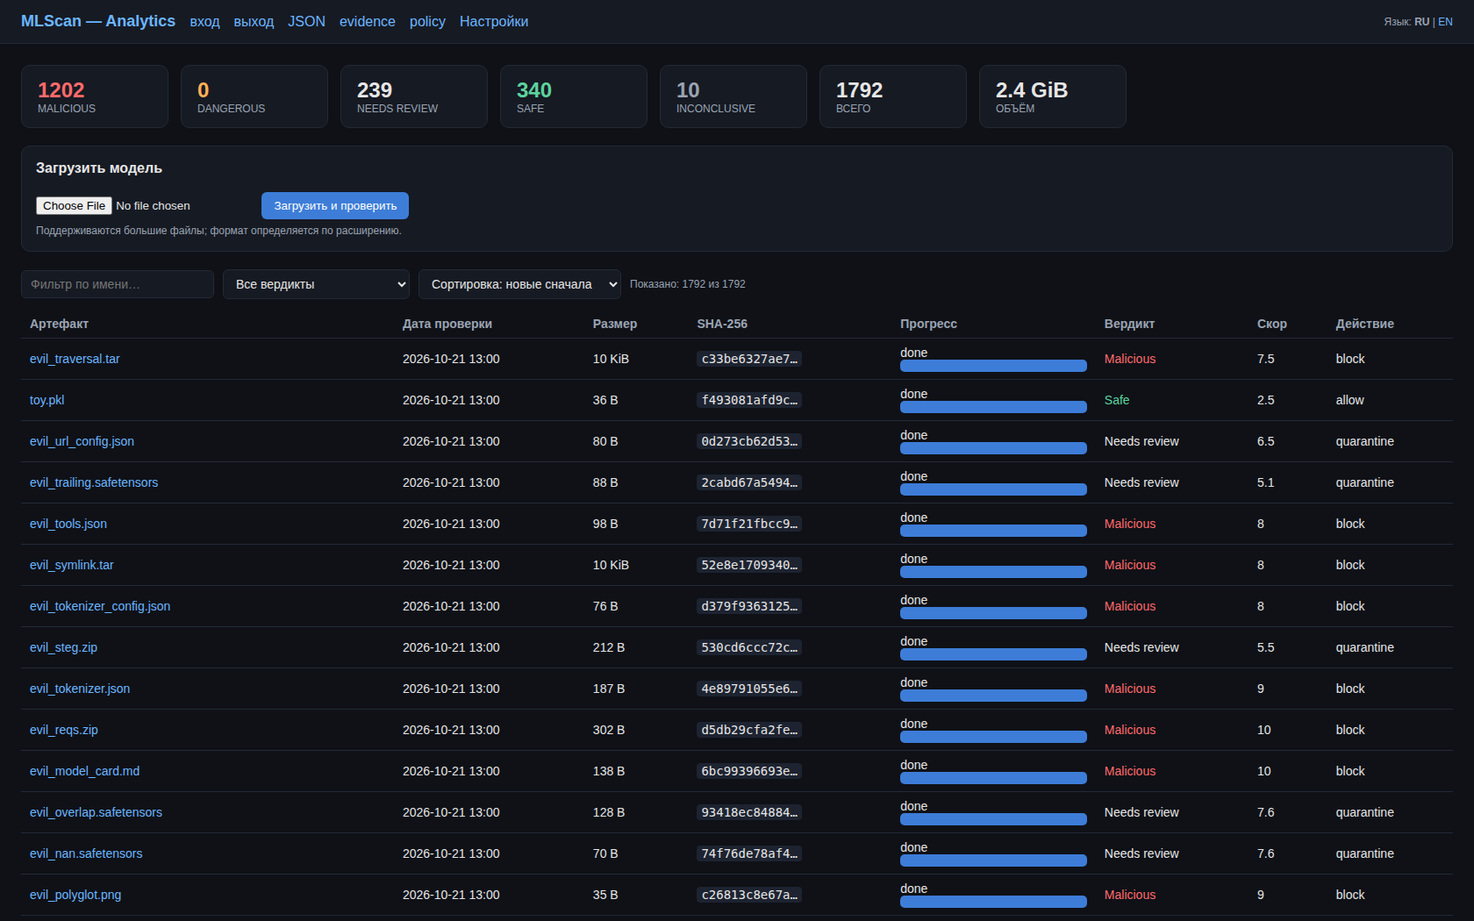
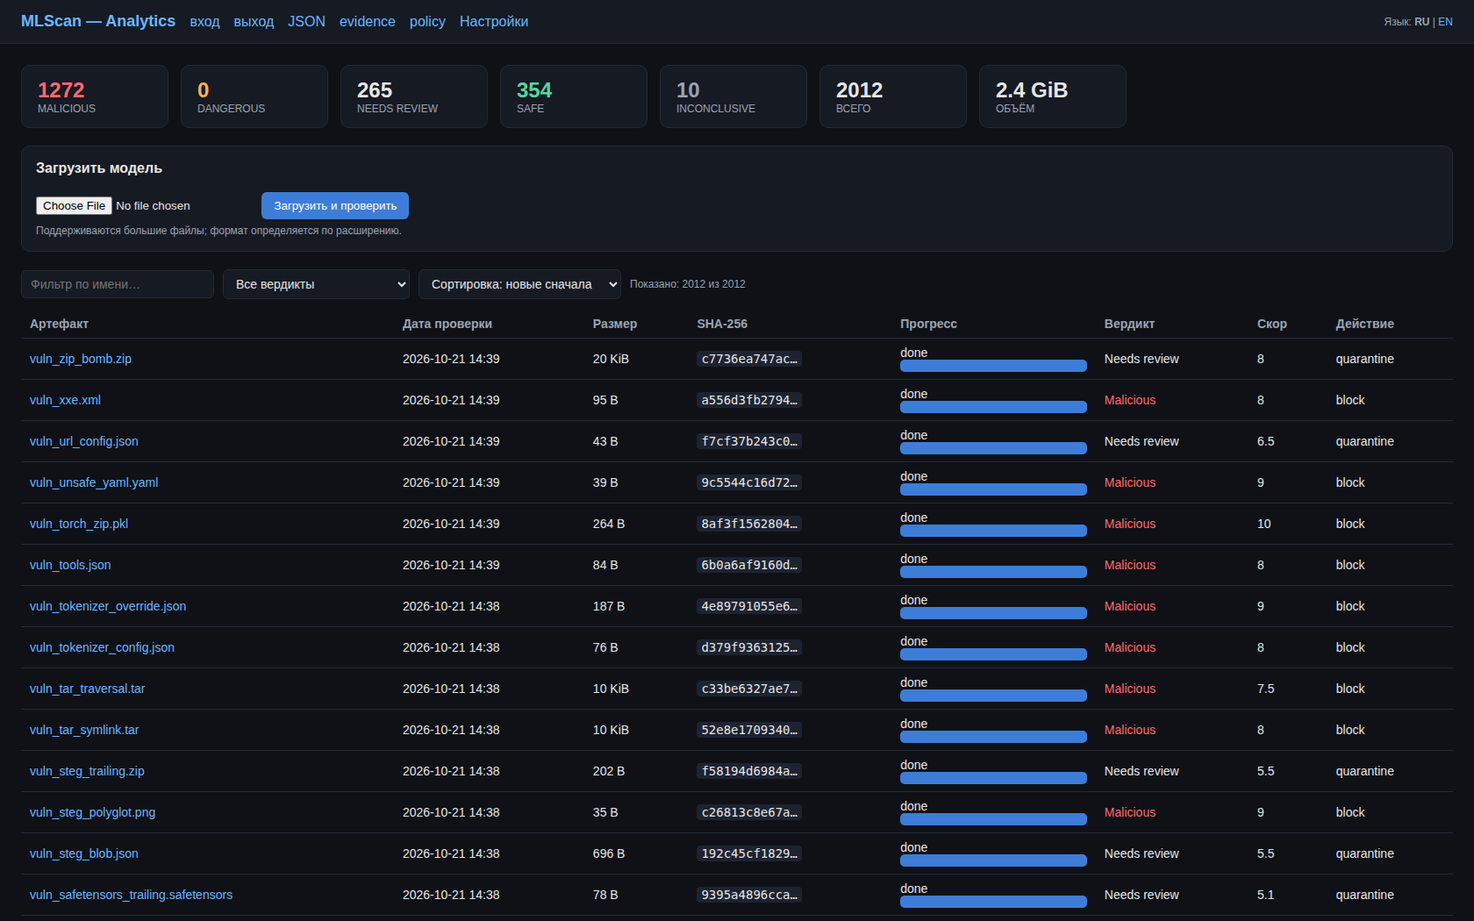
perf(db): serve testing scan list/stats from PostgreSQL instead of re-reading thousands of JSON files
- testing: /scans and /stats read from PostgreSQL (scans JOIN artifacts); /data/scans/*.json stays
  as fallback and as the store of scan details (/scans/<id>: static/sandbox/trace). Writes remain
  dual (file + DB); scan progress is mirrored into the DB; uploads now store artifact_id in the
  scans row (artifacts upsert ... RETURNING id).
- fix: deadlock introduced with the scans cache — save_scan() took the non-reentrant _lock while
  update() already held it, which blocked uploads and left scans stuck in queued/running. _lock is
  now an RLock and DB mirroring in update() happens outside the lock.
- testing: startup housekeeping marks interrupted scans (queued/running) as error.
- new deploy/v2/db/backfill_scans.py: idempotent backfill linking historical scans to artifacts and
  filling missing findings (run once in the testing pod).
- Measured: testing /scans 7.2 s -> 0.10 s, /stats 7.9 s -> 0.07 s; analytics /api/stats 0.03 s.
- Corpus regression after the changes: 33/33 detected, 0 misses, 0/5 FP (REPORT.md refreshed).
- docs 07 (RU/EN) and deploy/v2/README: DB read path, housekeeping and backfill; dashboards
  re-captured (2012 rows) for both languages.

diff --git a/deploy/stage2/service/mlscan_testing.py b/deploy/stage2/service/mlscan_testing.py
@@ -86,6 +86,23 @@ def db_exec(sql: str) -> None:
         c.close()
     except Exception as exc:  # noqa: BLE001
         print(f"[db] {type(exc).__name__}: {exc} | SQL: {sql[:160]}", file=sys.stderr)
+def db_query(sql: str):
+    """Читающий запрос к PostgreSQL: список кортежей или None (БД недоступна)."""
+    if not DB_ENABLED or _Pg is None:
+        return None
+    try:
+        c = _Pg(PG_HOST, int(os.environ.get("PGPORT", "5432")),
+                os.environ.get("PGUSER", "mlscan"), os.environ.get("PGPASSWORD", ""),
+                os.environ.get("PGDATABASE", "mlscan"), timeout=30)
+        c.connect()
+        _cols, rows = c.query(sql)
+        c.close()
+        return rows
+    except Exception as exc:  # noqa: BLE001
+        print(f"[db] query {type(exc).__name__}: {exc}", file=sys.stderr)
+        return None
+
+
 MAX_UPLOAD = int(os.environ.get("MAX_UPLOAD", str(20 * 1024**3)))
 JOB_MEMORY = os.environ.get("JOB_MEMORY", "2Gi")
 JOB_EPHEMERAL = os.environ.get("JOB_EPHEMERAL", "8Gi")
@@ -124,7 +141,7 @@ K8S_PORT = os.environ.get("KUBERNETES_SERVICE_PORT_HTTPS", "443")
 _ssl_ctx = ssl.create_default_context(cafile=os.path.join(SA_DIR, "ca.crt"))
 _token = open(os.path.join(SA_DIR, "token")).read().strip()
 
-_lock = threading.Lock()
+_lock = threading.RLock()   # реентерабельный: update() держит _lock и вызывает save_scan()
 
 # Кэш списка сканов: чтение тысяч JSON-файлов на каждый запрос дорого (дашборд опрашивает
 # /scans и /stats часто). TTL 5 с; сбрасывается при сохранении нового скана.
@@ -190,6 +207,17 @@ def update(scan_id: str, **fields) -> None:
             return
         rec.update(fields)
         save_scan(rec)
+    # прогресс скана зеркалируется в PostgreSQL, чтобы список/статистика читались из БД
+    # (вне _lock: сетевой ввод-вывод не должен блокировать остальные операции)
+    sets = []
+    if "state" in fields:
+        sets.append(f"status={_lit(fields['state'])}")
+    if "stage" in fields:
+        sets.append(f"stage={_lit(fields['stage'])}")
+    if "progress" in fields:
+        sets.append(f"progress={int(fields['progress'])}")
+    if sets:
+        db_exec(f"UPDATE scans SET {', '.join(sets)} WHERE scan_id={_lit(scan_id)}")
 
 
 def _invalidate_scans_cache() -> None:
@@ -198,7 +226,22 @@ def _invalidate_scans_cache() -> None:
         _scans_cache["ts"] = 0.0
 
 
+_LIST_SQL = (
+    "SELECT s.scan_id, a.filename, a.size, a.sha256, s.status, s.stage, s.progress, s.verdict, "
+    "to_char(s.created_at, 'YYYY-MM-DD\"T\"HH24:MI:SS'), "
+    "to_char(COALESCE(s.finished_at, s.created_at), 'YYYY-MM-DD\"T\"HH24:MI:SS') "
+    "FROM scans s LEFT JOIN artifacts a ON a.id = s.artifact_id "
+    "ORDER BY s.created_at DESC")
+
+
 def list_scans() -> list[dict]:
+    # Основной путь — PostgreSQL (метаданные сканов и артефактов), без чтения тысяч файлов.
+    rows = db_query(_LIST_SQL)
+    if rows:
+        keys = ("scan_id", "name", "size", "sha256", "state", "stage", "progress",
+                "verdict", "created", "updated")
+        return [dict(zip(keys, r)) for r in rows]
+    # Фолбэк (БД недоступна): файлы /data/scans/*.json
     now = time.time()
     with _lock:
         cached = _scans_cache["data"]
@@ -223,6 +266,22 @@ def list_scans() -> list[dict]:
 
 
 def stats() -> dict:
+    rows = db_query("SELECT s.status, s.verdict, a.size, a.sha256 "
+                    "FROM scans s LEFT JOIN artifacts a ON a.id = s.artifact_id")
+    if rows is not None:
+        by_state: dict[str, int] = {}
+        by_verdict: dict[str, int] = {}
+        total_bytes = 0
+        hashes = set()
+        for status, verdict, size, sha in rows:
+            by_state[status or "?"] = by_state.get(status or "?", 0) + 1
+            if verdict:
+                by_verdict[verdict] = by_verdict.get(verdict, 0) + 1
+            total_bytes += int(size or 0)
+            if sha:
+                hashes.add(sha)
+        return {"scans": len(rows), "by_state": by_state, "by_verdict": by_verdict,
+                "total_bytes": total_bytes, "distinct_sha256": len(hashes)}
     scans = list_scans()
     by_state: dict[str, int] = {}
     by_verdict: dict[str, int] = {}
@@ -629,9 +688,19 @@ class Handler(BaseHTTPRequestHandler):
             rec["local_path"] = local
         save_scan(rec)
         if DB_ENABLED:
-            db_exec("INSERT INTO artifacts(sha256,size,format,filename,s3_key) VALUES "
-                    f"({_lit(sha)},{int(got)},{_lit(fmt)},{_lit(name)},{_lit(rec.get('s3_key'))}) "
-                    "ON CONFLICT (sha256) DO NOTHING")
+            rows = db_query(
+                "INSERT INTO artifacts(sha256,size,format,filename,s3_key) VALUES "
+                f"({_lit(sha)},{int(got)},{_lit(fmt)},{_lit(name)},{_lit(rec.get('s3_key'))}) "
+                "ON CONFLICT (sha256) DO UPDATE SET size=EXCLUDED.size, "
+                "filename=EXCLUDED.filename, s3_key=EXCLUDED.s3_key RETURNING id")
+            art_id = rows[0][0] if rows else None
+            if art_id is not None:
+                rec["artifact_id"] = art_id
+                save_scan(rec)
+            db_exec("INSERT INTO scans(scan_id,artifact_id,status,stage,progress) VALUES "
+                    f"({_lit(scan_id)},{art_id if art_id is not None else 'NULL'},"
+                    f"'queued','queued',0) "
+                    "ON CONFLICT (scan_id) DO UPDATE SET artifact_id=EXCLUDED.artifact_id")
             db_exec("INSERT INTO uploads(artifact_id,request_id,bytes,status,finished_at) "
                     f"SELECT id,{_lit(scan_id)},{int(got)},'received',now() FROM artifacts WHERE sha256={_lit(sha)}")
         if authz is not None:
@@ -655,6 +724,29 @@ class Handler(BaseHTTPRequestHandler):
         return self._json(404, {"error": "not found"})
 
 
+def reap_stale_scans() -> int:
+    """Помечает прерванные сканы (queued/running) как error.
+
+    Очереди нет: обработка идёт в потоке процесса, поэтому после перезапуска пода
+    такие сканы остаются «вечно в процессе». При старте переводим их в error
+    (файл + зеркало в PostgreSQL), чтобы список и статистика были корректны.
+    """
+    n = 0
+    for fn in os.listdir(store_dir()):
+        if not fn.endswith(".json"):
+            continue
+        sid = fn[:-5]
+        rec = load_scan(sid)
+        if not rec or rec.get("state") not in ("queued", "running"):
+            continue
+        update(sid, state="error", stage="error", progress=100, verdict="Inconclusive",
+               reason="проверка прервана (перезапуск сервиса тестирования)")
+        n += 1
+    if n:
+        print(f"[testing] прерванных сканов помечено error: {n}", flush=True)
+    return n
+
+
 def main() -> None:
     os.makedirs(DATA_DIR, exist_ok=True)
     os.makedirs(DATA_TMP, exist_ok=True)
@@ -663,6 +755,10 @@ def main() -> None:
     threading.Thread(target=lambda: ThreadingHTTPServer(("0.0.0.0", ARTIFACT_PORT),
                                                         ArtifactHandler).serve_forever(),
                      daemon=True).start()
+    try:
+        reap_stale_scans()
+    except Exception as exc:  # noqa: BLE001
+        print(f"[testing] housekeeping: {type(exc).__name__}: {exc}", file=sys.stderr)
     port = int(os.environ.get("PORT", "8080"))
     print(f"[testing] api :{port}, artifacts :{ARTIFACT_PORT}, artifacts_dir={ARTIFACTS_DIR}",
           flush=True)

diff --git a/deploy/v2/db/backfill_scans.py b/deploy/v2/db/backfill_scans.py
@@ -1,0 +1,127 @@
+#!/usr/bin/env python3
+# -*- coding: utf-8 -*-
+"""Бэкфилл метаданных сканов из файлов `/data/scans/*.json` в PostgreSQL.
+
+Зачем: исторические сканы (до включения записи в БД) не имеют связи
+`scans.artifact_id`, поэтому список и статистика не могли читаться из БД и
+сервис перечитывал тысячи JSON-файлов. Скрипт идемпотентен: дозаполняет
+`artifacts`, `scans` (с `artifact_id`) и `findings` для каждого файла скана.
+
+Запуск (в поде сервиса тестирования, где есть и файлы, и доступ к БД):
+
+    kubectl -n mlscan-testing exec -i deploy/mlscan-testing -- python3 - < deploy/v2/db/backfill_scans.py
+"""
+from __future__ import annotations
+
+import glob
+import json
+import os
+import sys
+
+sys.path.insert(0, "/opt/pg")
+
+try:
+    from pgclient import Pg  # type: ignore
+except Exception as exc:  # noqa: BLE001
+    print(f"pgclient недоступен: {exc}", file=sys.stderr)
+    raise SystemExit(2)
+
+DATA_DIR = os.environ.get("DATA_DIR", "/data")
+
+
+def _lit(v) -> str:
+    if v is None:
+        return "NULL"
+    if isinstance(v, (int, float)):
+        return str(v)
+    return "'" + str(v).replace("'", "''") + "'"
+
+
+def _run(c, sql: str, what: str):
+    """Выполняет запрос; при ошибке печатает контекст и возвращает None."""
+    try:
+        return c.query(sql)
+    except Exception as exc:  # noqa: BLE001
+        print(f"[{what}] {type(exc).__name__}: {exc}", file=sys.stderr)
+        print(f"      SQL: {sql[:300]}", file=sys.stderr)
+        return None
+
+
+def connect() -> "Pg":
+    c = Pg(os.environ["PGHOST"], int(os.environ.get("PGPORT", "5432")),
+           os.environ.get("PGUSER", "mlscan"), os.environ.get("PGPASSWORD", ""),
+           os.environ.get("PGDATABASE", "mlscan"), timeout=60)
+    c.connect()
+    return c
+
+
+def main() -> int:
+    files = sorted(glob.glob(os.path.join(DATA_DIR, "scans", "*.json")))
+    print(f"файлов сканов: {len(files)}")
+    c = connect()
+    linked = inserted = skipped = 0
+    for path in files:
+        try:
+            with open(path) as fh:
+                rec = json.load(fh)
+        except Exception:  # noqa: BLE001
+            skipped += 1
+            continue
+        sid = rec.get("scan_id")
+        sha = rec.get("sha256")
+        if not sid:
+            skipped += 1
+            continue
+        art_id = None
+        if sha:
+            res = _run(c,
+                "INSERT INTO artifacts(sha256,size,format,filename,s3_key) VALUES "
+                f"({_lit(sha)},{int(rec.get('size') or 0)},{_lit(rec.get('format'))},"
+                f"{_lit(rec.get('name'))},{_lit(rec.get('s3_key'))}) "
+                "ON CONFLICT (sha256) DO UPDATE SET size=EXCLUDED.size, "
+                "filename=EXCLUDED.filename, s3_key=EXCLUDED.s3_key RETURNING id", "artifacts")
+            art_id = res[1][0][0] if res and res[1] else None
+        state = rec.get("state") or "done"
+        verdict = rec.get("verdict")
+        reason = rec.get("reason")
+        timings = json.dumps(rec.get("timings") or {}, ensure_ascii=False)
+        created = rec.get("created") or rec.get("updated")
+        finished = rec.get("updated") if state in ("done", "error") else None
+        _run(c,
+            "INSERT INTO scans(scan_id,artifact_id,status,stage,progress,verdict,reason,timings,"
+            "started_at,finished_at,created_at) VALUES "
+            f"({_lit(sid)},{art_id if art_id is not None else 'NULL'},{_lit(state)},"
+            f"{_lit(rec.get('stage'))},{int(rec.get('progress') or 0)},{_lit(verdict)},{_lit(reason)},"
+            f"{_lit(timings)}::jsonb,"
+            f"{(_lit(created) + '::timestamptz') if created else 'NULL'},"
+            f"{(_lit(finished) + '::timestamptz') if finished else 'NULL'},"
+            f"{(_lit(created) + '::timestamptz') if created else 'now()'}) "
+            "ON CONFLICT (scan_id) DO UPDATE SET artifact_id=EXCLUDED.artifact_id, "
+            "status=EXCLUDED.status, stage=EXCLUDED.stage, progress=EXCLUDED.progress, "
+            "verdict=EXCLUDED.verdict, reason=EXCLUDED.reason, timings=EXCLUDED.timings, "
+            "finished_at=EXCLUDED.finished_at", "scans")
+        if art_id is not None:
+            linked += 1
+        # findings — только если для скана их ещё нет
+        res = _run(c, f"SELECT count(*) FROM findings WHERE scan_id={_lit(sid)}", "findings-count")
+        cnt = res[1] if res else [["0"]]
+        if not (cnt and int(cnt[0][0])):
+            for f in rec.get("findings") or []:
+                ev = f.get("evidence")
+                ev_sql = "NULL" if ev is None else _lit(json.dumps(ev, ensure_ascii=False))
+                _run(c, "INSERT INTO findings(scan_id,level,check_id,category,severity,confidence,"
+                        "title,evidence) VALUES "
+                        f"({_lit(sid)},{_lit(f.get('level'))},{_lit(f.get('check_id'))},"
+                        f"{_lit(f.get('category'))},{_lit(f.get('severity'))},"
+                        f"{f.get('confidence') if f.get('confidence') is not None else 'NULL'},"
+                        f"{_lit(f.get('title'))},{ev_sql})", "findings")
+            inserted += 1
+    _cols, rows = c.query("SELECT count(*), count(artifact_id) FROM scans")
+    c.close()
+    print(f"связано с artifacts: {linked}; добавлено наборов findings: {inserted}; пропущено: {skipped}")
+    print(f"scans в БД: {rows[0][0]}, с artifact_id: {rows[0][1]}")
+    return 0
+
+
+if __name__ == "__main__":
+    raise SystemExit(main())

diff --git a/docs/07-implemented-architecture.md b/docs/07-implemented-architecture.md
@@ -102,6 +102,15 @@ Per-scan ConfigMap-транспорт больше не используется
 | PVC `mlscan-artifacts` | hostpath 20Gi | загруженные модели (`/artifacts/<scan_id>/<name>`) |
 | ConfigMap `mlscan-poc-lib`, `mlscan-testing-code`, `mlscan-formats`, `mlscan-s3client`, `mlscan-pgclient`, `mlscan-authz`, `mlscan-i18n` | — | общий анализ (PoC), код сервиса, адаптеры форматов, S3- и PG-клиенты, аутентификация/авторизация, локализация |
 
+
+Чтение сканов: список (`/scans`) и агрегаты (`/stats`) отдаются **из PostgreSQL**
+(`scans JOIN artifacts`; ~0.1 с на 1900+ записей вместо чтения тысяч JSON-файлов), а файлы
+`/data/scans/*.json` остаются фолбэком (если БД недоступна) и хранилищем деталей скана
+(`/scans/<id>`: `static`, `sandbox`, трасса). Запись идёт в оба места (файл + БД), прогресс
+скана зеркалируется в БД. При старте сервис помечает прерванные сканы (`queued`/`running`)
+как `error` — очереди нет, обработка идёт в потоке процесса. Исторические записи связываются
+с артефактами (`scans.artifact_id`) скриптом `deploy/v2/db/backfill_scans.py`.
+
 ### 2.4 `mlscan-analytics` — аналитический движок + UI (Компонента 3)
 
 | Объект | Тип | Назначение |
@@ -383,6 +392,10 @@ stdlib `pgclient.py` со SCRAM-аутентификацией).
 | `audit_log`, `uploads`, `connections` | все сервисы (через `authz`) | аудит действий, журнал загрузок, журнал HTTP-подключений |
 | `settings` | admin (страница `/settings` / API) | системные настройки, в т.ч. **глобальный язык** (`language`) |
 | `policies`, `decisions` | — | схема готова; фактически политика задаётся `policy.json` (ConfigMap) |
+
+Чтение горячих путей сервиса тестирования (`/scans`, `/stats`) выполняется из этих таблиц
+(join `scans`+`artifacts`), поэтому список и статистика не зависят от количества файлов на PVC;
+запись — двойная (файл + БД).
 
 Целостность: на `evidence` и `audit_log` навешены триггеры, запрещающие `UPDATE/DELETE`
 (append-only «на уровне БД»), дополнительно к hash-цепочке. Резервное копирование —

diff --git a/docs/en/07-implemented-architecture.md b/docs/en/07-implemented-architecture.md
@@ -104,6 +104,16 @@ one-time token. The per-scan ConfigMap transport is no longer used.
 | PVC `mlscan-artifacts` | hostpath 20Gi | uploaded models (`/artifacts/<scan_id>/<name>`) |
 | ConfigMap `mlscan-poc-lib`, `mlscan-testing-code`, `mlscan-formats`, `mlscan-s3client`, `mlscan-pgclient`, `mlscan-authz`, `mlscan-i18n` | — | shared analysis (PoC), service code, format adapters, S3 and PG clients, authentication/authorization, localisation |
 
+
+Scan reads: the list (`/scans`) and aggregates (`/stats`) are served **from PostgreSQL**
+(`scans JOIN artifacts`; ~0.1 s for 1900+ rows instead of re-reading thousands of JSON files),
+while `/data/scans/*.json` remains the fallback (when the DB is unavailable) and the store of
+scan details (`/scans/<id>`: `static`, `sandbox`, trace). Writes go to both places (file + DB),
+and scan progress is mirrored into the DB. On startup the service marks interrupted scans
+(`queued`/`running`) as `error` — there is no queue, processing runs in the process thread.
+Historical records are linked to artifacts (`scans.artifact_id`) by
+`deploy/v2/db/backfill_scans.py`.
+
 ### 2.4 `mlscan-analytics` — analytics engine + UI (Component 3)
 
 | Object | Type | Purpose |
@@ -387,6 +397,10 @@ stdlib `pgclient.py` with SCRAM authentication).
 | `audit_log`, `uploads`, `connections` | all services (via `authz`) | action audit, upload log, HTTP connection log |
 | `settings` | admin (`/settings` page / API) | system settings, incl. the **global language** (`language`) |
 | `policies`, `decisions` | — | the schema is ready; in practice the policy is set by `policy.json` (ConfigMap) |
+
+The testing service's hot read paths (`/scans`, `/stats`) are served from these tables (a
+`scans`+`artifacts` join), so the list and statistics do not depend on the number of files on the
+PVC; writes are dual (file + DB).
 
 Integrity: `evidence` and `audit_log` have triggers prohibiting `UPDATE/DELETE`
 (append-only "at the DB level"), in addition to the hash chain. Backup —

diff --git a/deploy/v2/README.md b/deploy/v2/README.md
@@ -286,6 +286,22 @@ curl -s http://<analytics>/healthz
 curl -X POST -H "Authorization: Bearer $ADMIN_KEY" "http://<ops>/settings/language?lang=en"
 ```
 
+## Чтение метаданных сканов из PostgreSQL (реализовано)
+
+Горячие пути сервиса тестирования — список сканов (`/scans`) и агрегаты (`/stats`) — отдаются
+**из PostgreSQL** (`scans JOIN artifacts`), а не чтением тысяч JSON-файлов; файлы остаются
+фолбэком и хранилищем деталей скана. Запись двойная (файл + БД), прогресс зеркалируется в БД.
+
+Исторические записи (до включения записи в БД) связываются с артефактами идемпотентным скриптом:
+
+```bash
+kubectl -n mlscan-testing exec -i deploy/mlscan-testing -- python3 - < deploy/v2/db/backfill_scans.py
+```
+
+При старте сервис тестирования помечает прерванные сканы (`queued`/`running`) как `error`
+(очереди нет — обработка идёт в потоке процесса, поэтому после перезапуска пода такие сканы
+иначе остаются «вечно в процессе»).
+
 ## Песочница: библиотеки и проверка torch (реализовано)
 
 Образ песочницы `mlscan-sandbox:v2` дополнен библиотеками (`torch` CPU, `numpy`, `safetensors`,

diff --git a/tests/vulnerabilities/REPORT.md b/tests/vulnerabilities/REPORT.md
@@ -1,6 +1,6 @@
 # Отчёт: проверка системы на синтетическом корпусе уязвимостей
 
-- Дата: 2026-10-21 11:46:17
+- Дата: 2026-10-21 17:40:00
 - Образцов: 38 (malicious=33, benign=5)
 - **Обнаружено (malicious): 33/33**
 - **Пропущено: 0**
